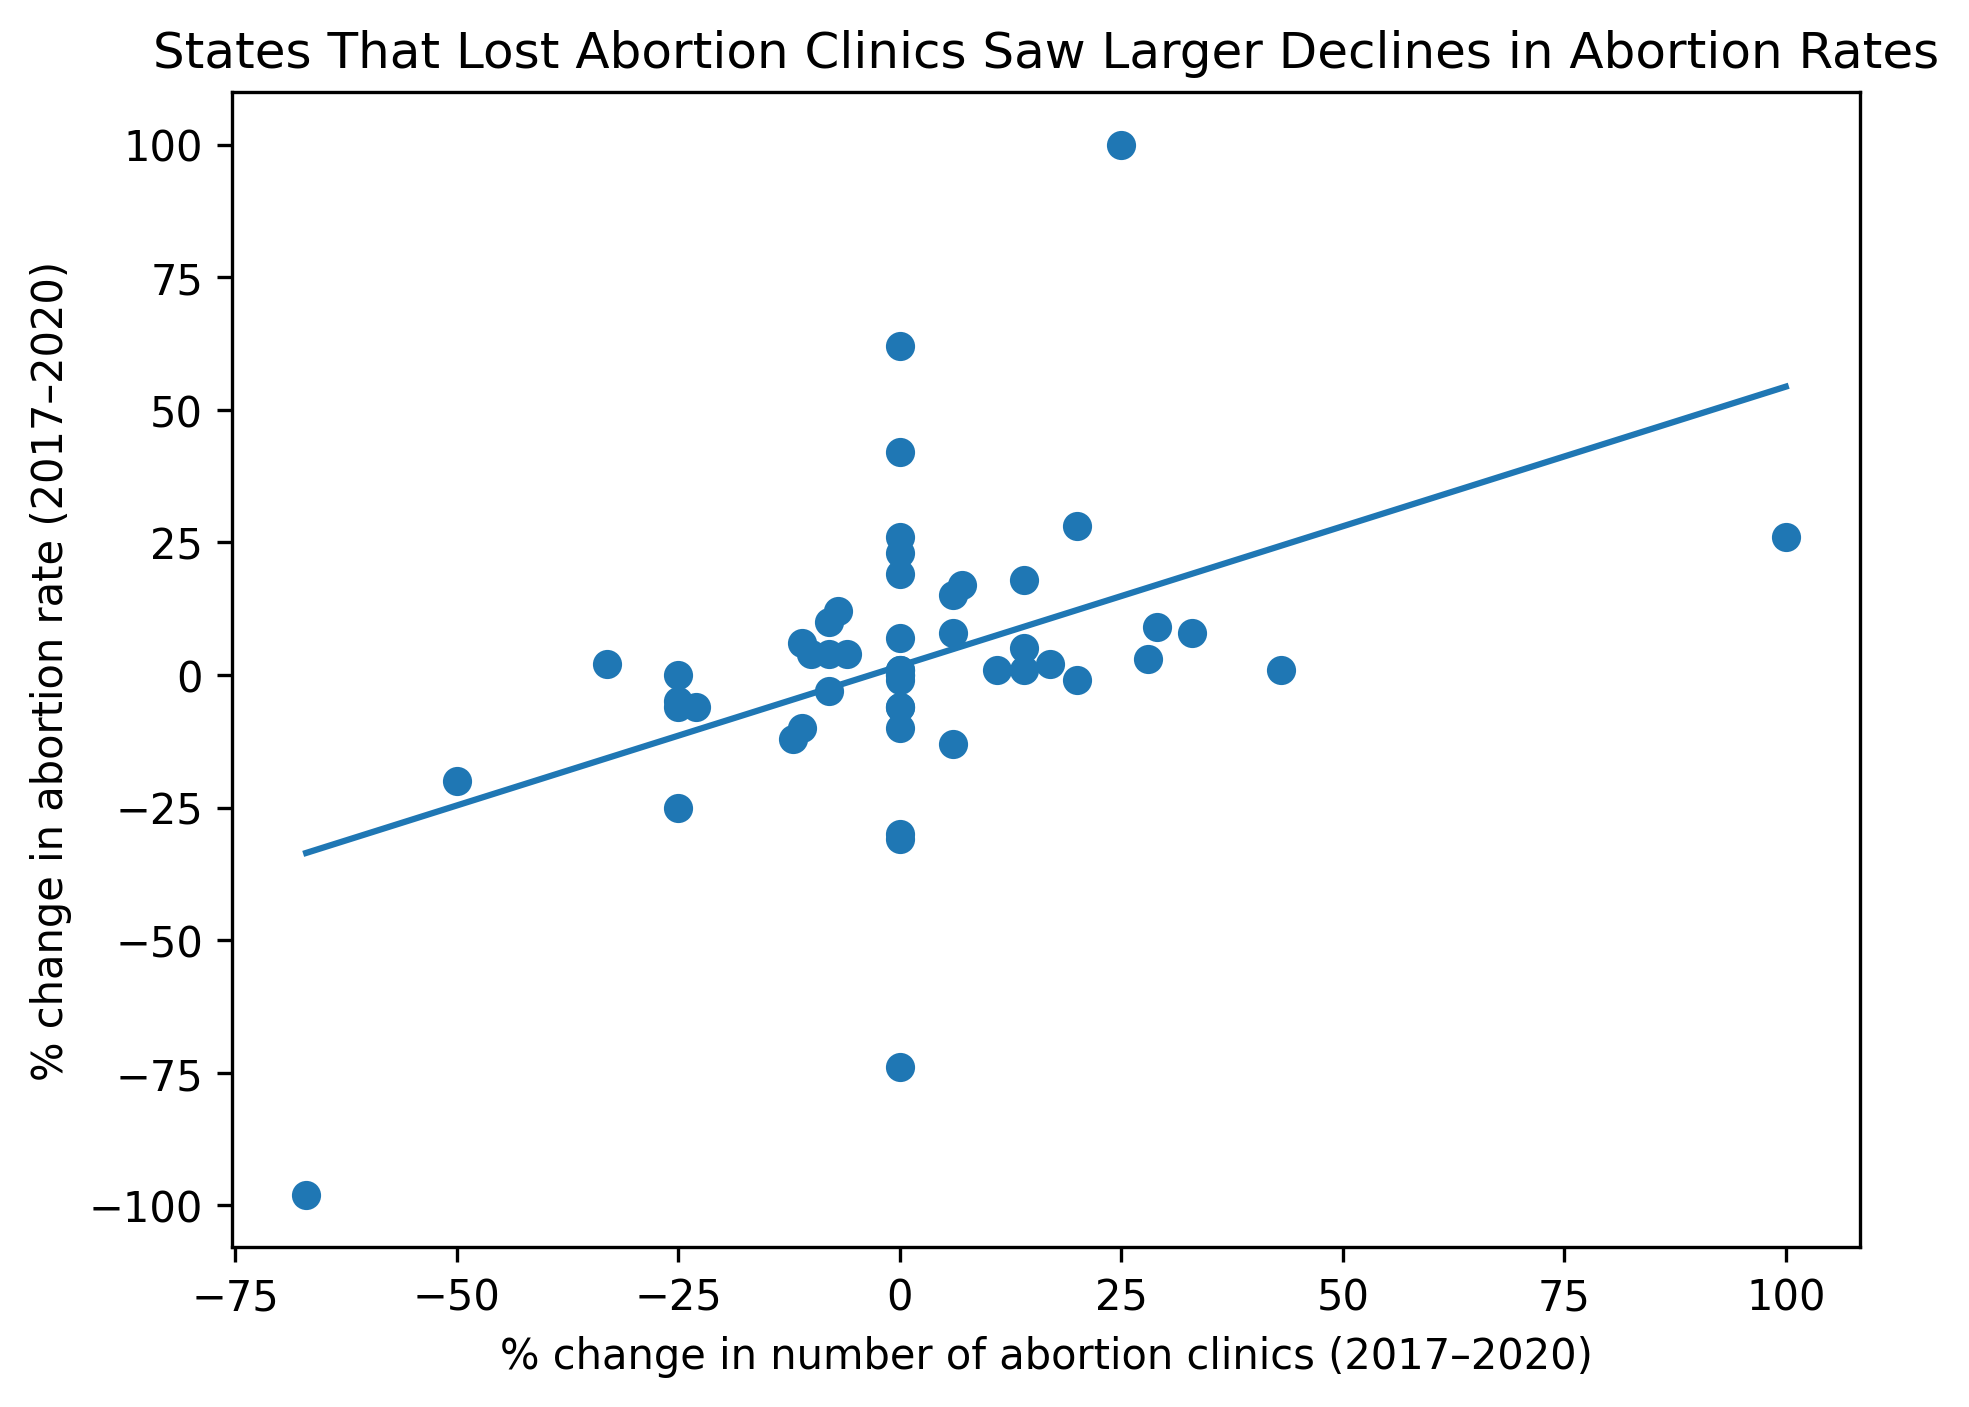
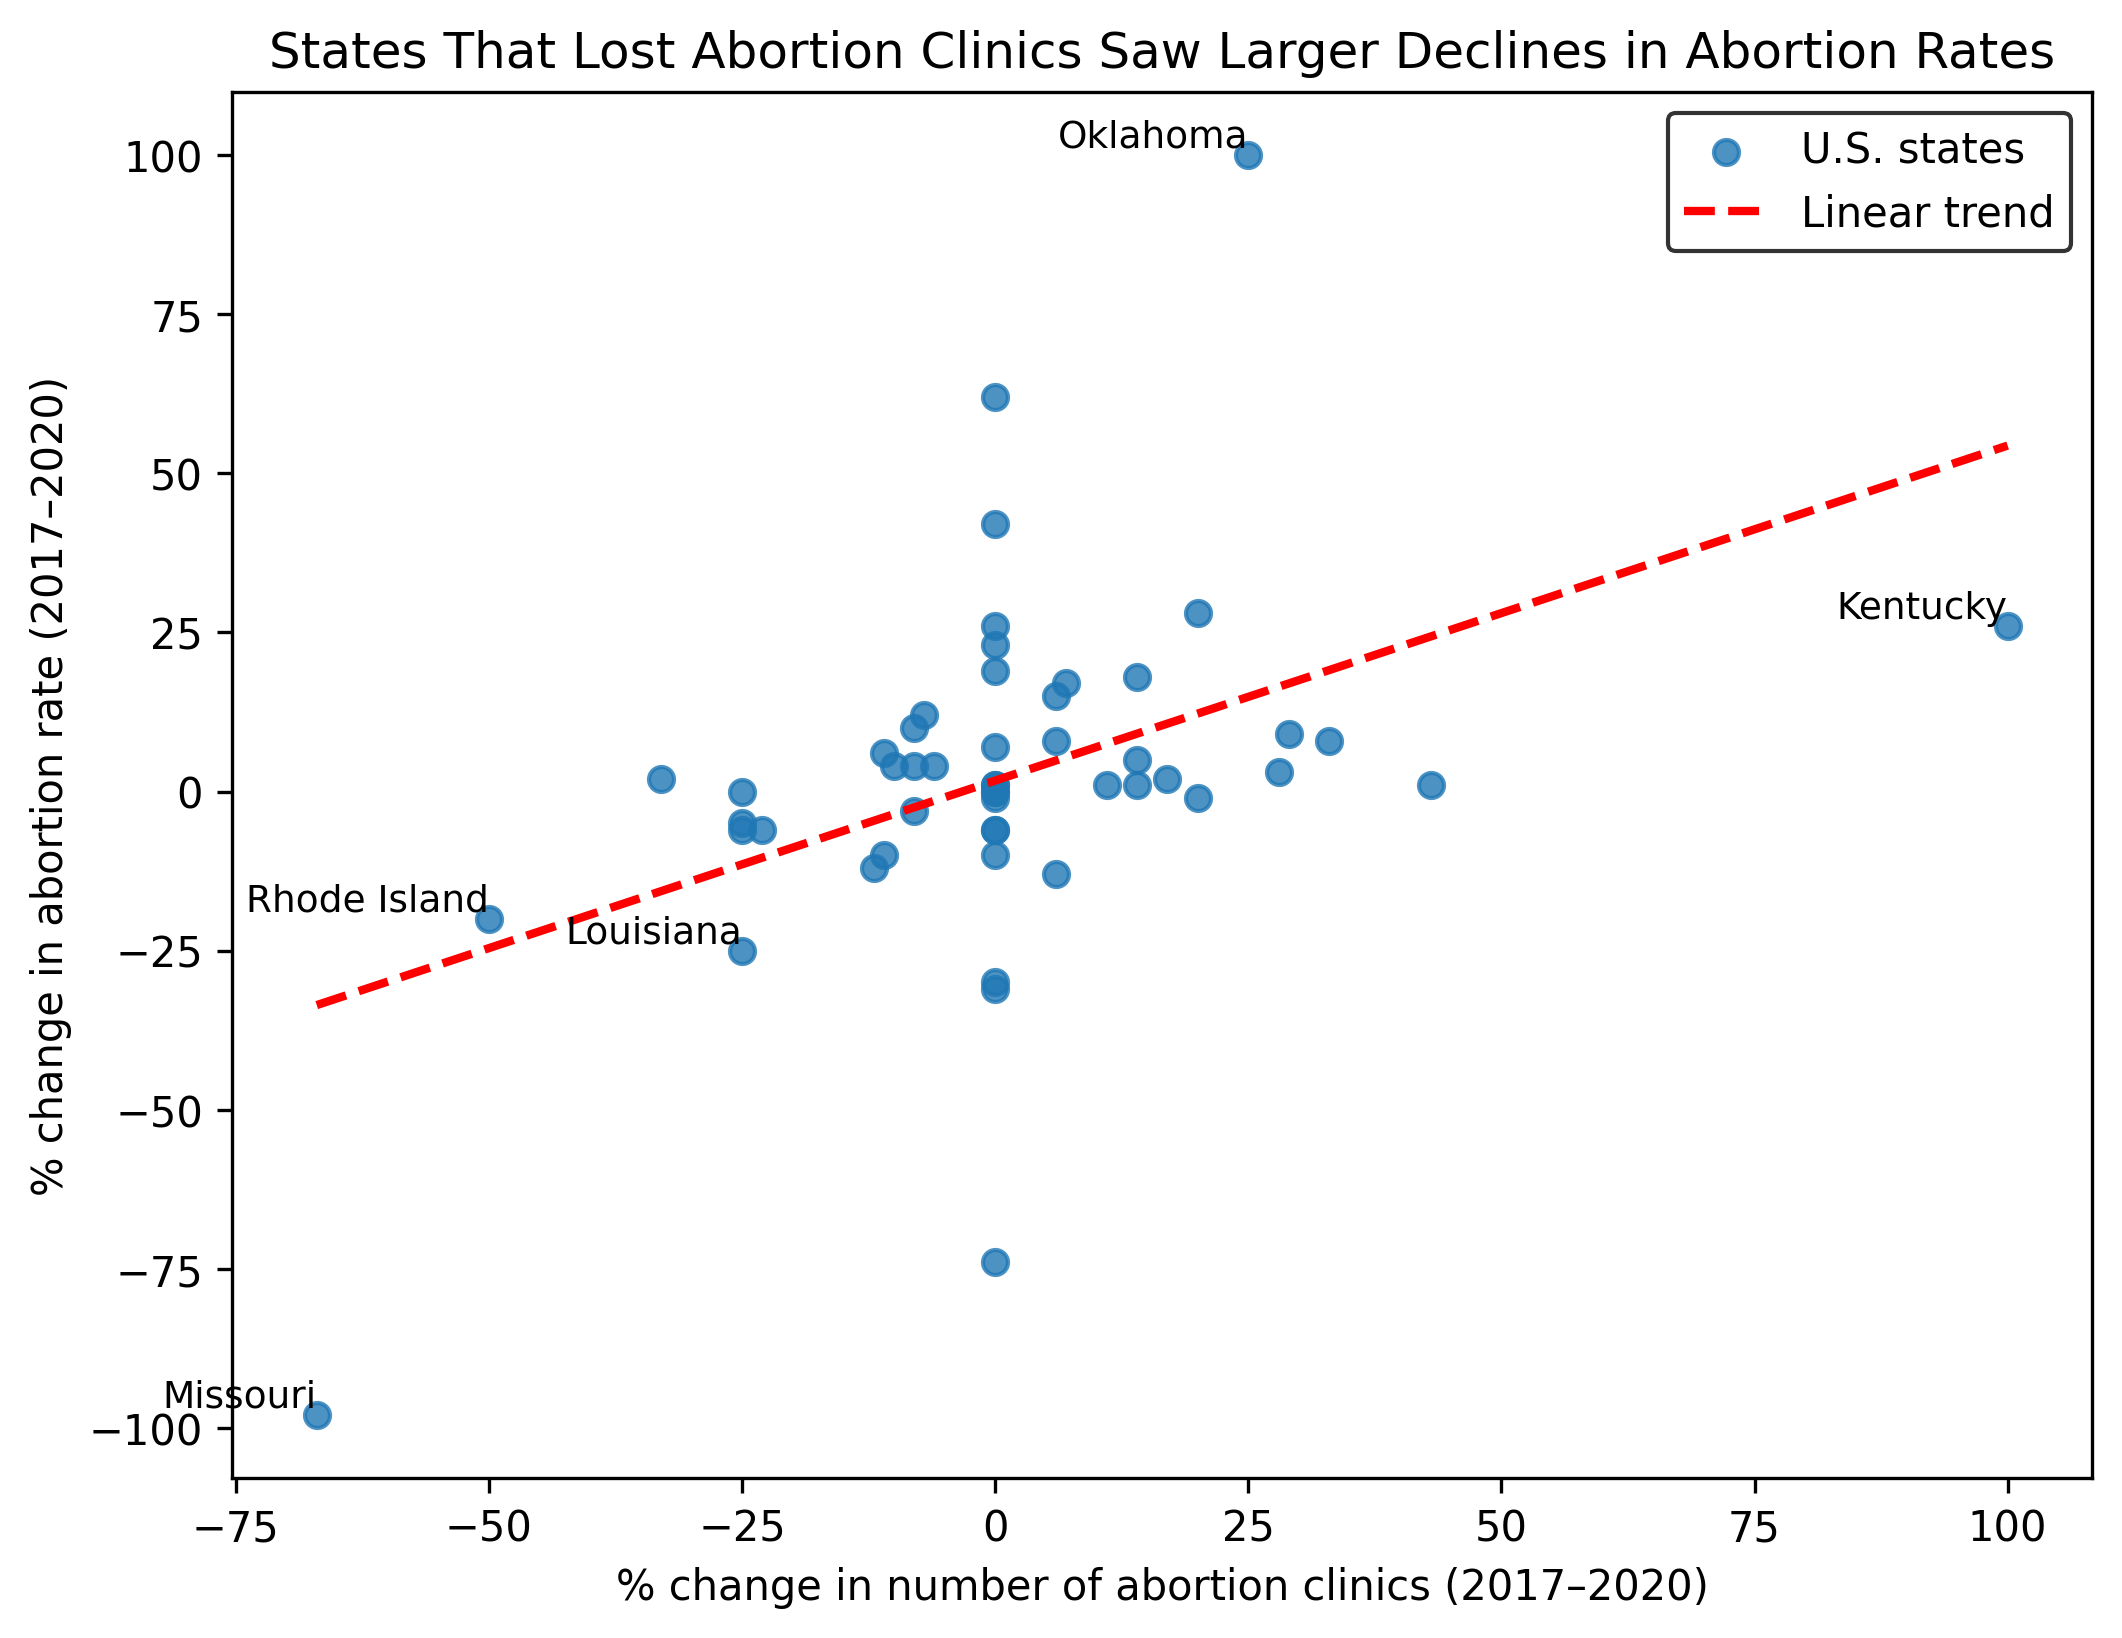
edited figure 1

diff --git a/figure1_gen.py b/figure1_gen.py
@@ -2,35 +2,66 @@ import pandas as pd
 import matplotlib.pyplot as plt
 import numpy as np
 
-# Load the dataset
+# Load data
 df = pd.read_excel("abortion_data_guttmacher.xlsx")
 
-# Define columns (exact names from your dataset)
+# Column names
+state_col = "U.S. State"
 x_col = "% change in the no. of abortion clinics, 2017-2020"
 y_col = "% change in abortion rate, 2017-2020"
 
-# Keep only rows with valid data
-plot_df = df[[x_col, y_col, "U.S. State"]].dropna()
+# Drop missing values
+plot_df = df[[state_col, x_col, y_col]].dropna()
 
-# Extract values
 x = plot_df[x_col].values
 y = plot_df[y_col].values
 
-# Create scatter plot
-plt.figure(figsize=(7, 5))
-plt.scatter(x, y)
+# Create figure
+plt.figure(figsize=(8, 6))
 
-# Fit and plot regression line
+# Scatter plot
+plt.scatter(x, y, alpha=0.8, label="U.S. states")
+
+# Regression line
 slope, intercept = np.polyfit(x, y, 1)
 x_line = np.linspace(min(x), max(x), 100)
 y_line = slope * x_line + intercept
-plt.plot(x_line, y_line)
+plt.plot(
+    x_line,
+    y_line,
+    linestyle="--",
+    linewidth=2,
+    color="red",
+    label="Linear trend"
+)
 
-# Labels and title (intentionally persuasive framing)
+# ---- Define BIVARIATE outliers ----
+# Top/bottom 10% thresholds for BOTH axes
+x_low, x_high = np.percentile(x, [10, 90])
+y_low, y_high = np.percentile(y, [10, 90])
+
+for _, row in plot_df.iterrows():
+    is_x_outlier = row[x_col] <= x_low or row[x_col] >= x_high
+    is_y_outlier = row[y_col] <= y_low or row[y_col] >= y_high
+
+    if is_x_outlier and is_y_outlier:
+        plt.text(
+            row[x_col],
+            row[y_col],
+            row[state_col],
+            fontsize=9,
+            ha="right",
+            va="bottom"
+        )
+
+# Labels and title
 plt.xlabel("% change in number of abortion clinics (2017–2020)")
 plt.ylabel("% change in abortion rate (2017–2020)")
 plt.title("States That Lost Abortion Clinics Saw Larger Declines in Abortion Rates")
 
+# Boxed legend
+plt.legend(frameon=True, edgecolor="black")
+
 # Save figure
-plt.savefig("figure1.png", bbox_inches="tight", dpi=300)
+plt.savefig("figure1.png", dpi=300, bbox_inches="tight")
 plt.close()
